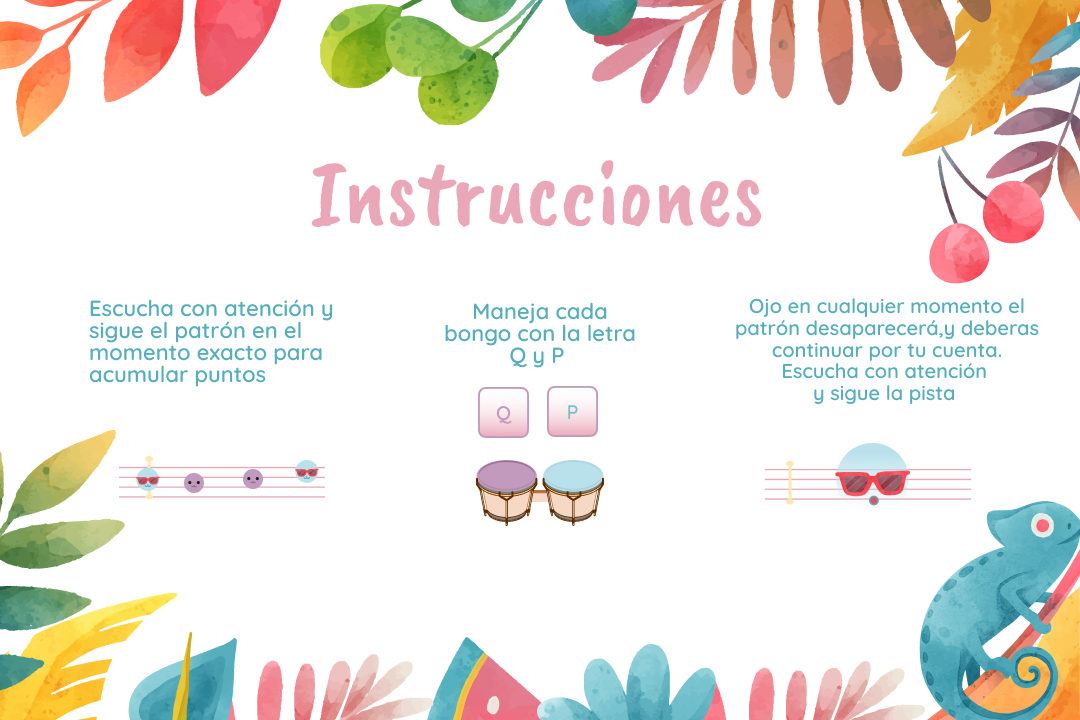
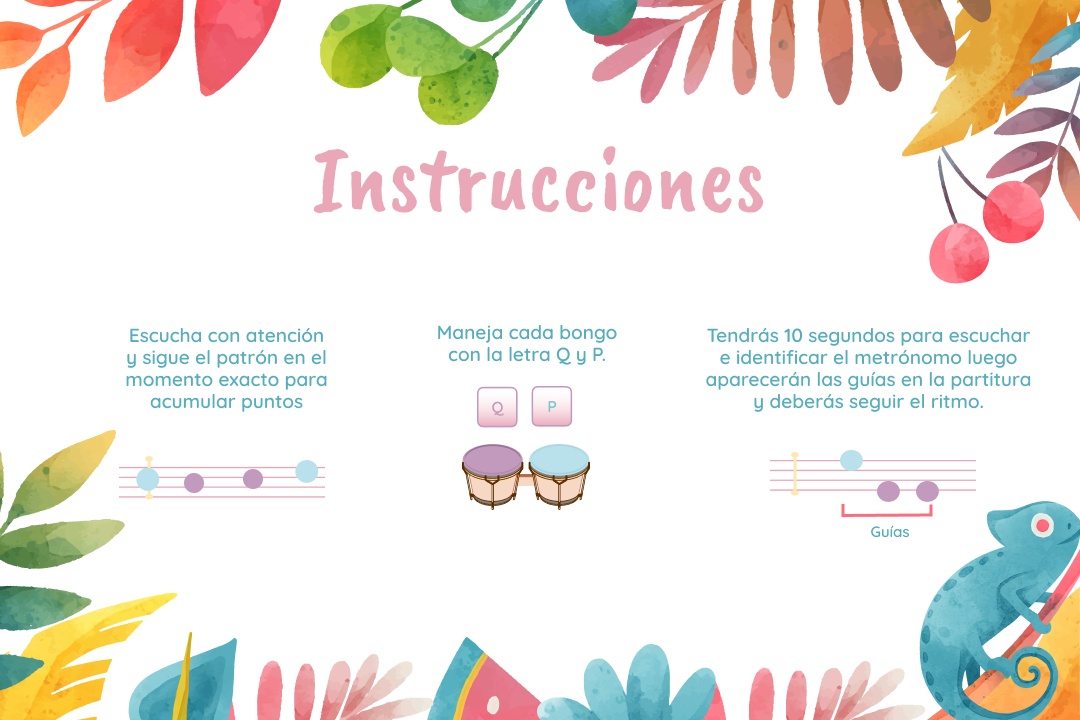
actualizo con correcciones

diff --git a/bongo.js b/bongo.js
@@ -97,10 +97,9 @@ function preload() {
     blueArray = new Array(36);
     purpleArray = new Array(36);
 
-    purpleArray2 = new Array(24);
-    blueArray2 = new Array(48);
+    purpleArray2 = new Array(18);
+    blueArray2 = new Array(36);
 
-    //PurpleBalls = new PurpleBall(880, 180, 80);
     
     //sonidos
     bongoMoradoSonido = app.loadSound(path+'sounds/soundBongoMorado.mp3');
@@ -121,8 +120,6 @@ function preload() {
     counter1 = 0;
     counter2 = 0;
 
-    //estados
-    //state = 1;
 }
 
 function setup(){
@@ -158,14 +155,14 @@ function draw(){
                 //para crear 36 pelotas moradas
                 for(let i = 0; i < purpleArray.length; i++){
                     newPurplePosX = purplePosX + defaultPosX* i
-                    purpleArray[i] = new PurpleBall(newPurplePosX, 262);
+                    purpleArray[i] = new PurpleBall(newPurplePosX, 272);//262
                     purpleArray[i].draw();
                     
                 }
 
                 for(let a = 0; a < blueArray.length; a++){
                     let newBluePosX = bluePosX + defaultPosX* a
-                    blueArray[a] = new BlueBall(newBluePosX, 180);
+                    blueArray[a] = new BlueBall(newBluePosX, 200); //180
                     blueArray[a].draw();
 
                 }
@@ -180,7 +177,7 @@ function draw(){
                         purplePosX -=3;
                         bluePosX -=3;
 
-                }}, 10000);
+                }}, 3000);
 
                 if(keyIsDown(81)){
                     console.log("lista la q");
@@ -270,10 +267,10 @@ function draw(){
                         bluePosX2 = -10000;
                     
                     }else{
-                        purplePosX -=3;
-                        bluePosX2 -=3;
+                        purplePosX -=4;
+                        bluePosX2 -=4;
                 
-                }}, 10000);
+                }}, 5000);
 
                 if(keyIsDown(81)){
                     //console.log("lista la q");
@@ -327,7 +324,7 @@ function draw(){
 
                 break;
     }
-    text('X:'+mouseX+ 'Y:'+mouseY, mouseX, mouseY);
+    
 }
 
 function moves(){
